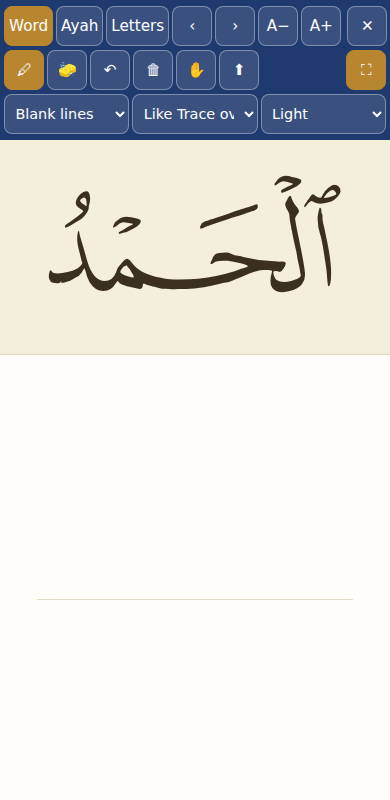
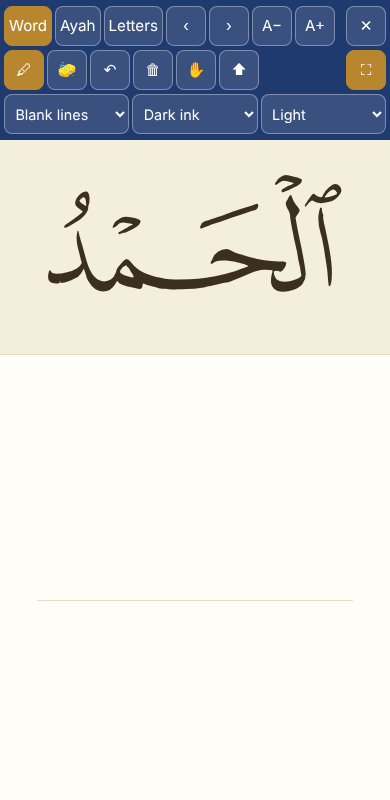
Review #941: short labels that fit (As traced / Dark ink), every list box shows its longest option, long-labels mutation (PCF MSA J34)
At 390px each list box has 92px for text; "Like Trace over" needed 104 and "Like Trace over, dark" 142,
and the Bangla was cut too (the screenshot read "Like Trace ov"). The pop-out suite's fit check skips
hidden boxes, and the new box is hidden in Trace over, so nothing measured it. writing-blank-model now
asserts every visible box holds its longest option with Blank lines on; 171/0, five mutations each fail.

Claude-Session: https://claude.ai/code/session_01VLTMxUCwUemDmx8ydcpZnq

diff --git a/app/js/writing-popout.js b/app/js/writing-popout.js
@@ -83,6 +83,9 @@ const CSS = `
 @media (max-width:599.98px){.wp-tx{display:none}}
 `;
 
+// PCF MSA J34: the example above blank lines is A "As traced" (the Letter style) or B "Dark ink". Architect review of
+// #941 (17 Oct 2026): the first labels, "Like Trace over" / "Like Trace over, dark", were cut at 390px (92px of room,
+// 104 and 142 needed; Bangla too). The short words fit every width, and the box's spoken name says what it is.
 const MODEL_KEY = "writingModelStyle";
 function readModel() {
   try { return localStorage.getItem(MODEL_KEY) === "dark" ? "dark" : "like"; } catch { return "like"; }
@@ -116,8 +119,8 @@ export function openWordPopout({ host, word, ayahWords, unitWords, ensureFont, p
             <option value="blank">${t("Blank lines")}</option>
           </select>
           <select class="wp-shade" data-wp-model-style aria-label="${t("Example above the paper")}" title="${t("Example above the paper")}" hidden>
-            <option value="like">${t("Like Trace over")}</option>
-            <option value="dark">${t("Like Trace over, dark")}</option>
+            <option value="like">${t("As traced")}</option>
+            <option value="dark">${t("Dark ink")}</option>
           </select>
           <span class="wp-sp"></span>
           <button type="button" data-wp="close" aria-label="${t("Close")}" title="${t("Close")}">✕</button>

diff --git a/app/js/i18n/bn.js b/app/js/i18n/bn.js
@@ -3808,8 +3808,9 @@ export const BN = {
   "Trace over": "উপর দিয়ে লিখতে",
   "Blank lines": "খালি লাইন",
   "Example above the paper": "কাগজের উপরের উদাহরণ",
-  "Like Trace over": "উপর দিয়ে লেখার মতো",
-  "Like Trace over, dark": "উপর দিয়ে লেখার মতো, গাঢ়",
+  // PCF MSA J34: the example above blank paper, A (like Trace over, always a light tracing shade) and B (dark).
+  "As traced": "হালকা উদাহরণ",
+  "Dark ink": "গাঢ় উদাহরণ",
   "Smaller window": "উইন্ডো ছোট করুন",
   "Word or Ayah": "শব্দ বা আয়াত",
   // Note-pane Part C1 (6 Oct 2026): annotations and heading status badges.
